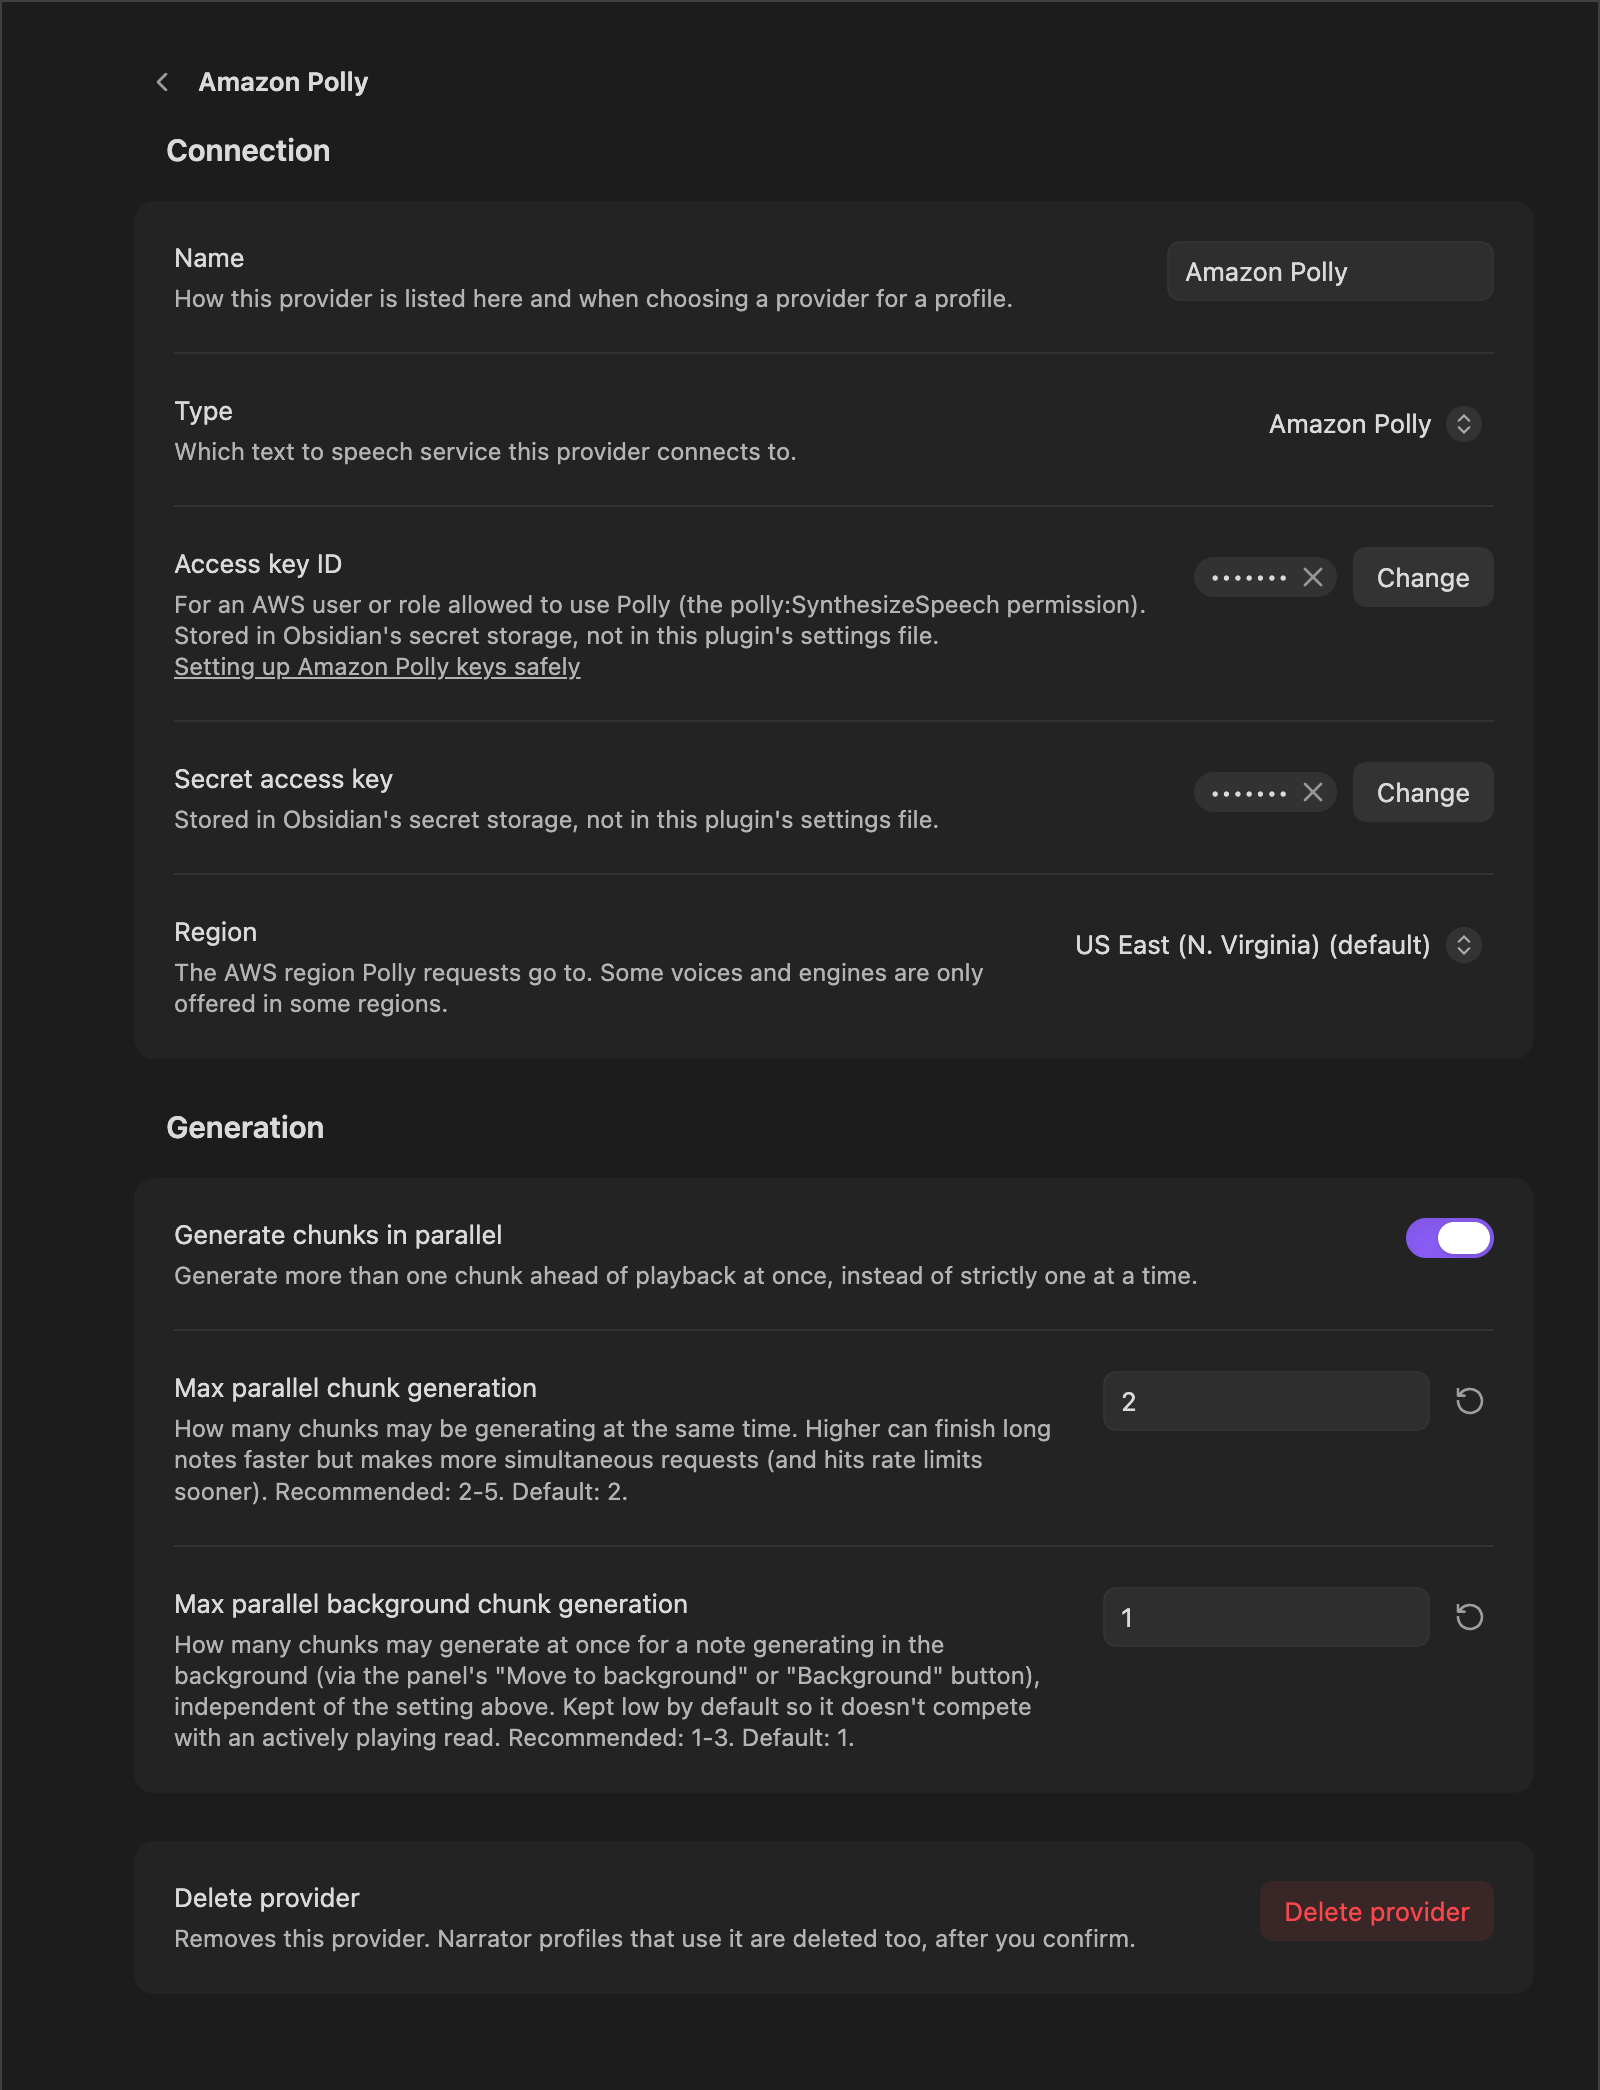
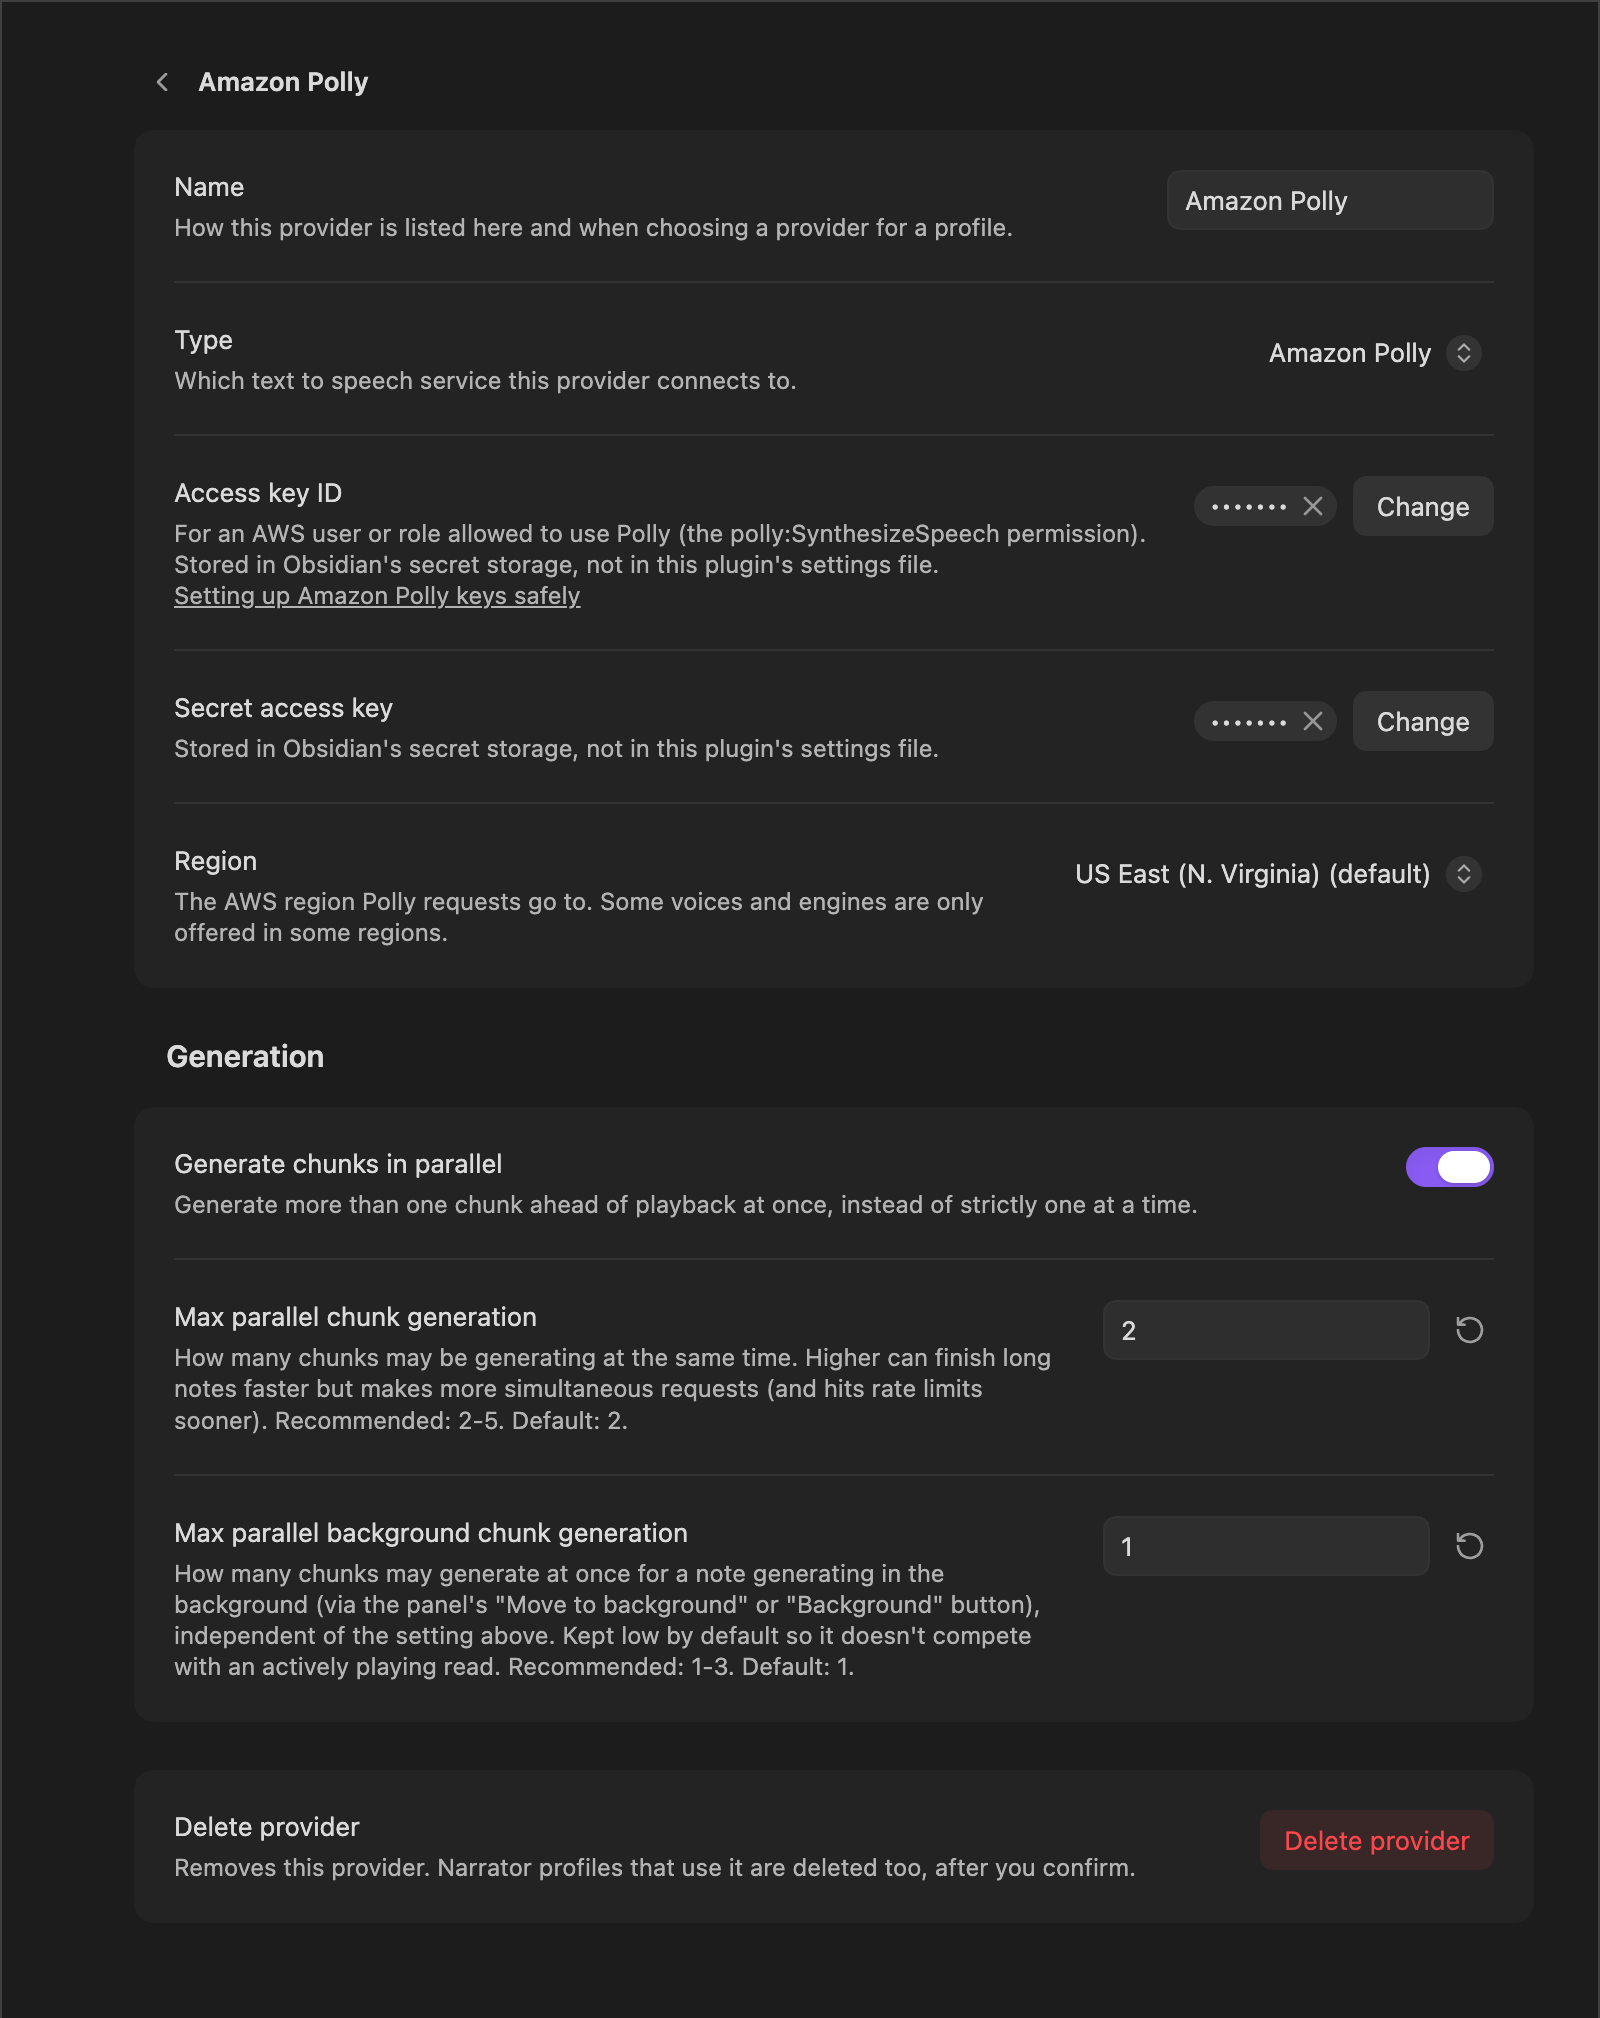
Docs for the 1.2.0 release
- Roadmap: 1.2.0 moves from In beta to Recently shipped.
- Providers Settings: a provider page's general settings (name, type and
  credentials) sit at the top without the "Connection" heading, as in
  1.2.0, and the four provider screenshots are retaken from the 1.2.0
  build to match.

diff --git a/Note Narrator/Roadmap/Roadmap.md b/Note Narrator/Roadmap/Roadmap.md
@@ -7,7 +7,7 @@ tags:
 publish: true
 permalink: note-narrator/roadmap
 plugin-version: 1.2.0
-updated: 2026-10-26
+updated: 2026-10-27
 ---
 
 # Roadmap
@@ -15,12 +15,9 @@ updated: 2026-10-26
 > [!warning] Not a promise
 > This is direction, not a schedule. Ideas move between milestones, get reshaped, or get dropped. Version numbers show intended order, not dates.
 
-## In beta
-
-- **1.2.0: more providers.** Read with **OpenAI**, **Google Gemini** or **Amazon Polly** as well as ElevenLabs. The **+** button under **Providers** now lists the provider types and adds one only once you choose. Each provider has its own key settings (Amazon Polly takes AWS access keys and a region), voice settings in its narrator profiles, and a link to a guide for creating a key with only the permissions it needs, a spending limit and an expiration date. Google Gemini's audio is saved as `.wav` and still plays back part by part. Also fixed: a renamed provider or profile now shows its new name in the settings lists right away. Test it with BRAT's beta versions. See [[Providers Settings]] and [[Setting Up OpenAI]], [[Setting Up Google Gemini]] and [[Setting Up Amazon Polly]].
-
 ## Recently shipped
 
+- **1.2.0: more providers.** Read with **OpenAI**, **Google Gemini** or **Amazon Polly** as well as ElevenLabs. The **+** button under **Providers** now lists the provider types and adds one only once you choose. Each provider has its own key settings (Amazon Polly takes AWS access keys and a region), voice settings in its narrator profiles, and a link to a guide for creating a key with only the permissions it needs, a spending limit and an expiration date. Google Gemini's audio is saved as `.wav` and still plays back part by part. Also fixed: a renamed provider or profile now shows its new name in the settings lists right away, and a provider page's general settings sit at the top without a heading. See [[Providers Settings]] and [[Setting Up OpenAI]], [[Setting Up Google Gemini]] and [[Setting Up Amazon Polly]].
 - **1.1.6: fixes and centered panel text.** The note title is never read on its own as the first part anymore, so playback no longer pauses after it. Before, that happened when only a comment or a `---` line came before the first heading, when the first section was skipped, or when quick start's first part had room for nothing but the title. With **Read note properties** off, editing a property no longer marks saved audio or background notes as outdated, since properties are not heard. A new **Center panel text** setting (on by default) centers the panel's note stats, progress line and time readout. See [[Appearance Settings]].
 - **1.1.5: fixes and disclosure.** Background notes edited since they were generated, or made with another narrator, are marked **Outdated** on their card. A new **Protect audio shared with copied notes** setting (on by default) controls the check that keeps a copied note from overwriting or trashing the original's audio; it's the only time Note Narrator looks at other notes, and it's now described in [[Privacy and Network Use]]. Every dropdown marks its default option, ElevenLabs error messages are kept short, and a development-only dependency was updated for a security advisory.
 - **1.1.4: fixes.** Edit a note while it's being read, or play its outdated saved audio, and **Read** now offers **Regenerate** instead of staying a disabled "Reading". It also comes back as **Read** if you delete the saved audio while it plays. Only an `.mp3` counts as a note's saved audio, so an edited audio path property can no longer get another file overwritten or trashed, and a copy of a note no longer replaces or trashes the audio it shares with the original. Background notes whose audio is saved are freed from memory and play from the vault, and unsaved finished notes are capped by the new **Unsaved finished notes kept in memory** setting (see [[Performance Settings]]). Notes saved with Windows (CRLF) line endings no longer have their properties read aloud or their highlight drift, a property edited just before Read is spoken with its new value, and audio saved by **Auto-generate on open** with quick start on keeps its parts for Previous/Next instead of playing as one piece.

diff --git a/Note Narrator/Settings/Providers Settings.md b/Note Narrator/Settings/Providers Settings.md
@@ -9,7 +9,7 @@ tags:
 publish: true
 permalink: note-narrator/settings/providers
 plugin-version: 1.2.0
-updated: 2026-10-26
+updated: 2026-10-27
 ---
 
 # Providers Settings
@@ -36,7 +36,9 @@ A **provider** is a named connection to a text to speech service: its **type**, 
 
 ![[settings-provider-openai.png]]
 
-### Connection
+### Name, type and credentials
+
+At the top of the page, without a heading:
 
 | Setting | What it does |
 | --- | --- |
